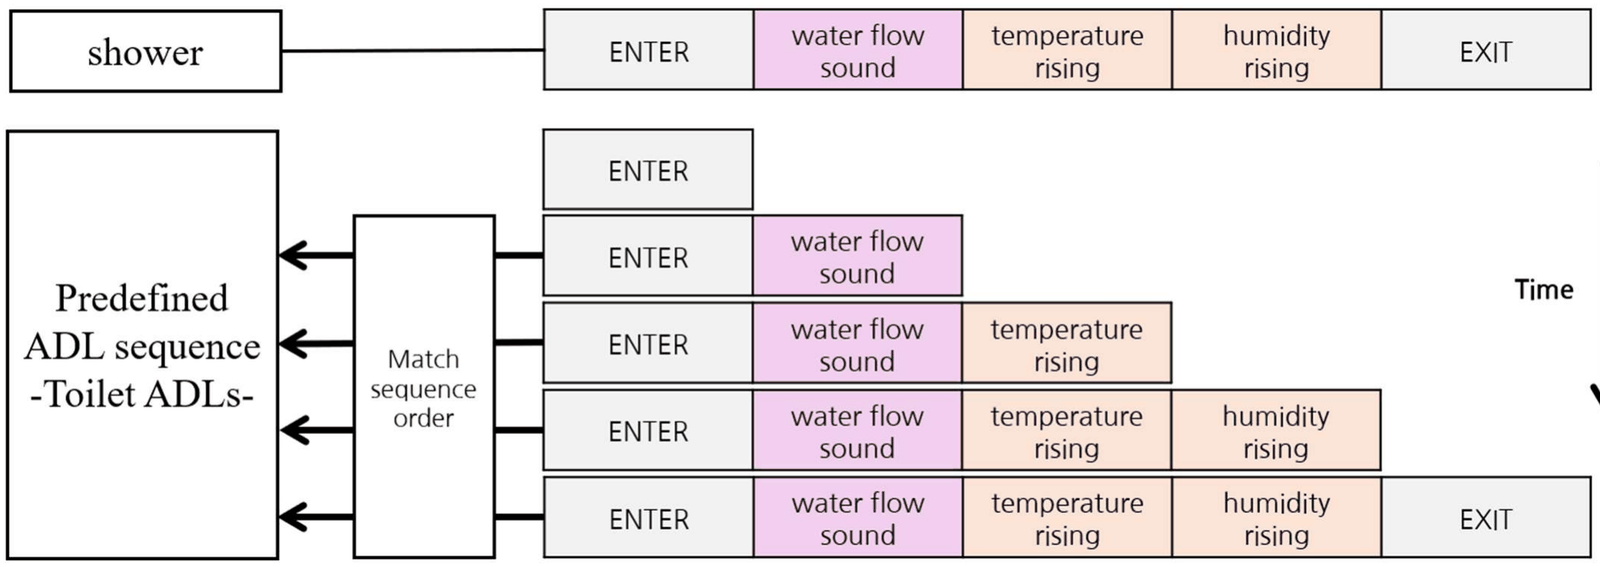
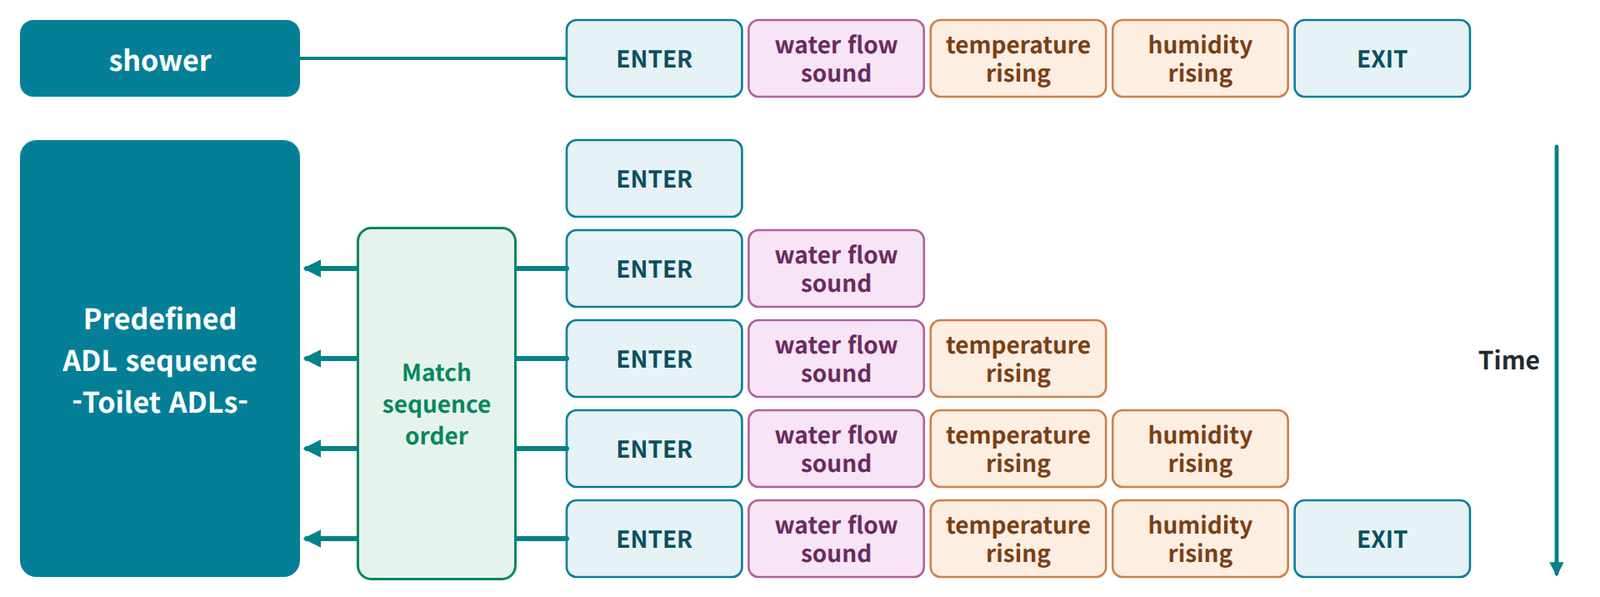
CSOS homepage: real-time ADL analysis figure redrawn in the card style (nemo_t003 wn 1.7, 9558)

diff --git a/research.html b/research.html
@@ -122,7 +122,7 @@
 <h3 id="dean-pipeline-t">수집 파이프라인과 실시간 ADL 분석</h3>
 <ul><li>주방, 화장실, 안방, 거실, 출입구에 DEAN 노드를 설치해 환경 신호, 노이즈 사운드 신호, Device 이벤트를 모읍니다.</li><li>원시 데이터는 중간 허브 (SlimHub) 로만 보내 외부 유출을 막습니다.</li><li>ADL 이력과 ADL 수행 능력 평가를 위한 이벤트 시퀀스는 중간 허브와 App Server 를 잇는 데이터베이스로 보냅니다.</li><li>실시간 ADL 분석: 출입 -&gt; 이벤트 생성 및 감지 -&gt; 퇴장 사이의 데이터를 분석합니다. ADL 별 핵심 이벤트의 감지와 분석이 끝나면 ADL 을 추정해 App Server 와 데이터베이스로 보냅니다. ADL 시퀀스가 끝나지 않아도 거주자가 단위공간에서 나가면 추정 결과를 보냅니다.</li><li>단위공간마다 미리 정의한 ADL 시퀀스 (예: 화장실의 샤워 = 입장, 물 흐름 소리, 온도 상승, 습도 상승, 퇴장) 와 실시간으로 들어오는 이벤트의 순서를 맞추어 봅니다 (Match sequence order).</li></ul>
 <figure class="fig" style="--w:100%"><a href="assets/images/fig_005101_01_dean_data_collection_example.png" class="fig-link"><img src="assets/images/fig_005101_01_dean_data_collection_example.png" alt="화장실 DEAN 노드의 수집 예 (2025-04-10 저녁 약 1시간): 소리 이벤트 (점), 온도, 습도, IAQ, 등가 CO2, BVOC (선), 출입 (별표 기호) 과 그 위에 표시한 ADL 구간 (Defecation, Urine, Hand wash, Shower)" width="1400" height="618" loading="lazy" decoding="async"></a><figcaption>화장실 DEAN 노드의 수집 예 (2025-04-10 저녁 약 1시간): 소리 이벤트 (점), 온도, 습도, IAQ, 등가 CO2, BVOC (선), 출입 (별표 기호) 과 그 위에 표시한 ADL 구간 (Defecation, Urine, Hand wash, Shower)</figcaption></figure>
-<figure class="fig" style="--w:90%"><a href="assets/images/fig_005101_01_dean_realtime_adl_sequence.png" class="fig-link"><img src="assets/images/fig_005101_01_dean_realtime_adl_sequence.png" alt="실시간 ADL 분석: 화장실 ADL 의 미리 정의된 시퀀스 (샤워) 와 시간에 따라 쌓이는 이벤트의 순서를 맞춥니다." width="1600" height="567" loading="lazy" decoding="async"></a><figcaption>실시간 ADL 분석: 화장실 ADL 의 미리 정의된 시퀀스 (샤워) 와 시간에 따라 쌓이는 이벤트의 순서를 맞춥니다.</figcaption></figure>
+<figure class="fig" style="--w:90%"><a href="assets/images/fig_005101_01_dean_realtime_adl_sequence.png" class="fig-link"><picture><source media="(max-width: 560px)" srcset="assets/images/fig_005101_01_dean_realtime_adl_sequence_mobile.png" width="716" height="944"><img src="assets/images/fig_005101_01_dean_realtime_adl_sequence.png" alt="실시간 ADL 분석: 화장실 ADL 의 미리 정의된 시퀀스 (샤워) 와 시간에 따라 쌓이는 이벤트의 순서를 맞춥니다." width="1600" height="597" loading="lazy" decoding="async"></picture></a><figcaption>실시간 ADL 분석: 화장실 ADL 의 미리 정의된 시퀀스 (샤워) 와 시간에 따라 쌓이는 이벤트의 순서를 맞춥니다.</figcaption></figure>
 </section>
 </section>
 
